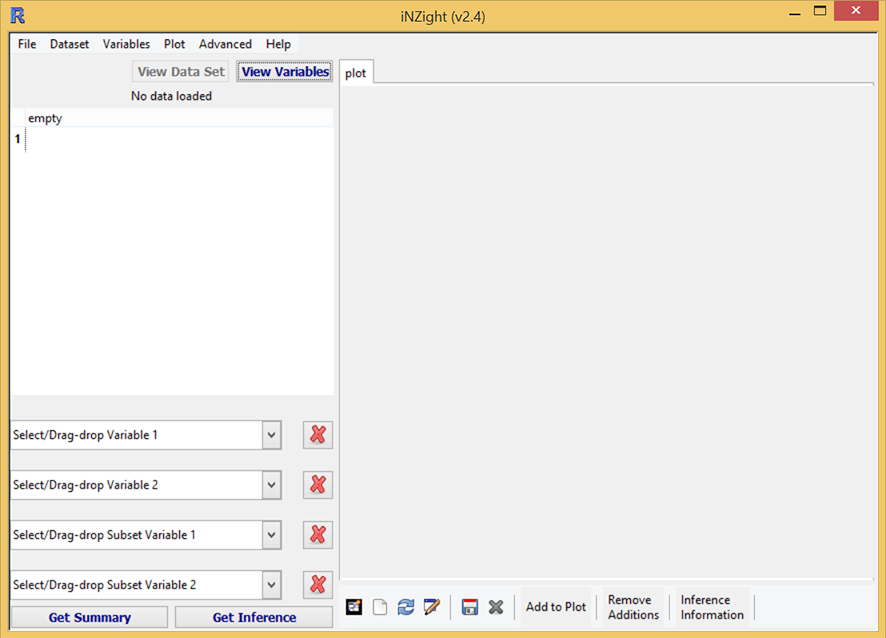
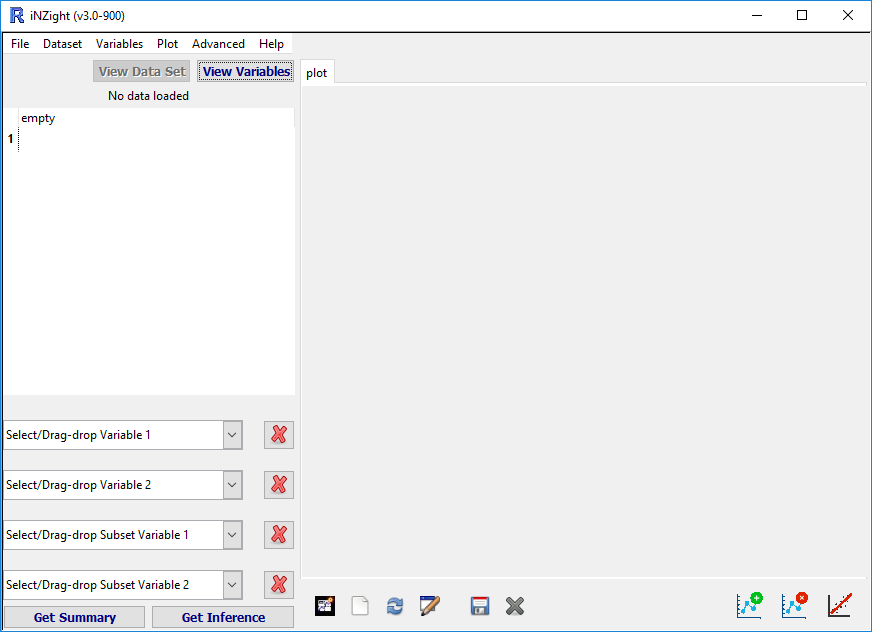
update images

Changed region(s): [[0.0, 0.0, 1.0, 1.0]]

diff --git a/iNZight/user_guides/interface/interface_edge.js b/iNZight/user_guides/interface/interface_edge.js
@@ -36,7 +36,7 @@
                         {
                             id: 'HelpMenu',
                             type: 'rect',
-                            rect: ['260px', '32px', '39px', '20px', 'auto', 'auto'],
+                            rect: ['258px', '33px', '39px', '20px', 'auto', 'auto'],
                             opacity: '1',
                             fill: ["rgba(255,255,255,0.00)"],
                             stroke: [0,"rgba(0,0,0,1)","none"]
@@ -44,7 +44,7 @@
                         {
                             id: 'AdvancedMenu',
                             type: 'rect',
-                            rect: ['195px', '32px', '65px', '20px', 'auto', 'auto'],
+                            rect: ['191px', '33px', '65px', '20px', 'auto', 'auto'],
                             cursor: 'pointer',
                             opacity: '1',
                             fill: ["rgba(255,255,255,0.00)"],
@@ -53,7 +53,7 @@
                         {
                             id: 'ManipVars',
                             type: 'rect',
-                            rect: ['95px', '32px', '62px', '20px', 'auto', 'auto'],
+                            rect: ['93px', '33px', '62px', '20px', 'auto', 'auto'],
                             cursor: 'pointer',
                             opacity: '1',
                             fill: ["rgba(255,255,255,0.00)"],
@@ -62,7 +62,7 @@
                         {
                             id: 'RowOperations',
                             type: 'rect',
-                            rect: ['45px', '32px', '50px', '20px', 'auto', 'auto'],
+                            rect: ['40px', '33px', '50px', '20px', 'auto', 'auto'],
                             cursor: 'pointer',
                             opacity: '1',
                             fill: ["rgba(0,0,0,0.00)"],
@@ -71,7 +71,7 @@
                         {
                             id: 'FileMenu',
                             type: 'rect',
-                            rect: ['10px', '32px', '35px', '20px', 'auto', 'auto'],
+                            rect: ['4px', '33px', '35px', '20px', 'auto', 'auto'],
                             opacity: '1',
                             fill: ["rgba(0,0,0,0.00)"],
                             stroke: [0,"rgba(0,0,0,1)","none"]
@@ -79,7 +79,7 @@
                         {
                             id: 'PlotToolbar',
                             type: 'rect',
-                            rect: ['339px', '579px', '538px', '51px', 'auto', 'auto'],
+                            rect: ['305px', '584px', '580px', '52px', 'auto', 'auto'],
                             cursor: 'pointer',
                             borderRadius: ["0px", "0px", "0px", "0px 0px"],
                             opacity: '1',
@@ -89,7 +89,7 @@
                         {
                             id: 'ViewChanger',
                             type: 'rect',
-                            rect: ['128px', '52px', '211px', '34px', 'auto', 'auto'],
+                            rect: ['90px', '53px', '211px', '34px', 'auto', 'auto'],
                             opacity: '1',
                             fill: ["rgba(0,0,0,0.00)"],
                             stroke: [0,"rgba(0,0,0,1)","none"]
@@ -97,7 +97,7 @@
                         {
                             id: 'DataName',
                             type: 'rect',
-                            rect: ['10px', '86px', '329px', '17px', 'auto', 'auto'],
+                            rect: ['4px', '88px', '300px', '17px', 'auto', 'auto'],
                             opacity: '1',
                             fill: ["rgba(0,0,0,0.00)"],
                             stroke: [0,"rgba(0,0,0,1)","none"]
@@ -105,7 +105,7 @@
                         {
                             id: 'DataViewer',
                             type: 'rect',
-                            rect: ['10px', '107px', '329px', '287px', 'auto', 'auto'],
+                            rect: ['4px', '110px', '300px', '287px', 'auto', 'auto'],
                             opacity: '1',
                             fill: ["rgba(0,0,0,0.00)"],
                             stroke: [0,"rgba(0,0,0,1)","none"]
@@ -113,7 +113,7 @@
                         {
                             id: 'DropTargets',
                             type: 'rect',
-                            rect: ['10px', '418px', '329px', '183px', 'auto', 'auto'],
+                            rect: ['4px', '415px', '300px', '195px', 'auto', 'auto'],
                             cursor: 'pointer',
                             opacity: '1',
                             fill: ["rgba(0,0,0,0.00)"],
@@ -122,7 +122,7 @@
                         {
                             id: 'SummaryButtons',
                             type: 'rect',
-                            rect: ['10px', '601px', '329px', '29px', 'auto', 'auto'],
+                            rect: ['4px', '607px', '300px', '29px', 'auto', 'auto'],
                             opacity: '1',
                             fill: ["rgba(0,0,0,0.00)"],
                             stroke: [0,"rgba(0,0,0,1)","none"]

diff --git a/iNZight/css/main.css b/iNZight/css/main.css
@@ -384,6 +384,11 @@ ul {
 ol.alpha {
   list-style-type: lower-alpha; }
 
+.image-row img {
+  height: 200px;
+  display: inline-block;
+  margin: 20px; }
+
 .round-button, .large-button, .feature .download .download_button, .horizontal .options .option, #dl_links .options .option, select {
   display: -webkit-box;
   display: -moz-box;
@@ -1278,7 +1283,7 @@ a img {
 .video-wrapper {
   position: relative;
   overflow: hidden;
-  margin: 0 auto; }
+  margin: 20px auto; }
   @media (max-width: 1099px) {
     .video-wrapper.asp16x9 {
       width: 100%;

diff --git a/iNZight/styles/3-modules/_markdown.sass b/iNZight/styles/3-modules/_markdown.sass
@@ -82,7 +82,7 @@ a img
 .video-wrapper
   position: relative
   overflow: hidden
-  margin: 0 auto
+  margin: 20px auto
 
   @include notwide
     &.asp16x9  // 16:9 aspect ratio: 9/16 = 0.5625

diff --git a/iNZight/styles/2-items/_images.sass b/iNZight/styles/2-items/_images.sass
@@ -1,0 +1,5 @@
+.image-row
+  img
+    height: 200px
+    display: inline-block
+    margin: 20px

diff --git a/iNZight/styles/2-items/_items.sass b/iNZight/styles/2-items/_items.sass
@@ -2,3 +2,4 @@
 @import 'components'
 @import 'mixins'
 @import 'media'
+@import 'images'

diff --git a/iNZight/instructions/install_windows.php b/iNZight/instructions/install_windows.php
@@ -4,16 +4,37 @@
 
   <li>
     Open the <b>iNZightVIT-installer.exe</b> file. By default this will have gone to <b>Downloads</b>.
+
+    <div class="image-row">
+      <img src="img/install/win/install_01.png">
+      <img src="img/install/win/install_02.png">
+    </div>
+
+    <div class="note">
+      <b>NOTE:</b>
+      We don't have a Microsoft developers account for them to make iNZight a "trusted application", so you'll likely get a security warning (shown above).
+      So long as the download comes from "https://stat.auckland.ac.nz/", you are fine.
+    </div>
   </li>
 
   <li>
     <b>Follow the instructions</b> to select the install location (recommended that you leave the default) and wait while iNZightVIT is installed.
+
+    <div class="image-row">
+      <img src="img/install/win/install_03.png">
+      <img src="img/install/win/install_04.png">
+    </div>
+
+
   </li>
 
   <li>
     <b>That's it!</b>
     iNZight has been installed on your computer. You'll find shortcuts on your Desktop,
     as well as a Start Menu folder.
+    <div class="image-row">
+      <img src="img/install/win/install_05.png">
+    </div>
   </li>
 
   <li>

diff --git a/iNZight/user_guides/plot_options/add_to_plot.Md b/iNZight/user_guides/plot_options/add_to_plot.Md
@@ -15,14 +15,14 @@ See also:
 ## Options for Scatter Plots        {#scatterplots}
 
 1. __Code more variables__
-  ![Code more variables](../../img/user_guides/add2plot/scatter1.jpg){.fright}
+  ![Code more variables](../../img/user_guides/plotoptions/02_addtoplot_scatter_codevars.png){.fright}
 
   __Colour by levels of__: this gives the option to colour code the data points by any variable. If a numeric variable is chosen, a rainbow spectrum of colours is used to signify progressively larger values. If a categorical variable is used, different levels are represented by different colours. (See [ways of choosing colours](#ColourChoices) for alternatives to selecting from the drop-down menu.)
 
   __Resize points proportional to__: this option can be used to resize the points proportional to any numeric variable in the data set.
 
 2. __Add trend curves__
-  ![Add trend curves](../../img/user_guides/add2plot/scatter2.jpg){.fright}
+  ![Add trend curves](../../img/user_guides/plotoptions/03_addtoplot_scatter_trend.png){.fright}
 
   Provides the user with the option to fit linear, quadratic and cubic trend curves to the data shown on the scatter plot. The user is also allowed to control the colour of the trend lines. (See [ways of choosing colours](#ColourChoices) for alternatives to selecting from the drop-down menu.)
 
@@ -47,27 +47,27 @@ See also:
   User can add ticks on both axes in order to make it easy to read off the x and y values for data points.
 
 6. __Join points by lines__
-  ![Join points by lines](../../img/user_guides/add2plot/scatter6.jpg){.fright}
+  ![Join points by lines](../../img/user_guides/plotoptions/04_addtoplot_scatter_join.png){.fright}
 
   Joins up data points in a continuous line. However, if the points are already colour coded by a variable, then separate lines are drawn connecting points belonging to each level of the coding variable.
 
 7. __Change plot appearance__
-  ![Change plot appearance](../../img/user_guides/add2plot/scatter7.jpg){.fright}
+  ![Change plot appearance](../../img/user_guides/plotoptions/05_addtoplot_scatter_appearance.png){.fright}
 
 
   This brings up a menu that allows the user to customize the following aspects of the scatter plot.
 
   - Users can change the colour of the data point symbols and opt to colour the interior of the symbols as well.
-  
+
   - Similarly the background of the plot can be changed by typing in a colour or by using the drop down menu.
 
   - The size of the symbols can be increased or decreased by using sliders.
-  
+
    (See [ways of choosing colours](#ColourChoices) for alternatives to selecting from the drop-down menu.)
 
 
 8. __Identify points__
-  ![Identify points](../../img/user_guides/add2plot/scatter8.jpg){.fright}
+  ![Identify points](../../img/user_guides/plotoptions/06_addtoplot_scatter_locate.png){.fright}
 
   This allows users to label points in one of three ways (text labels, colour labels, and related points), using one of three methods (clicking, selecting values, or labelling extreme points).
 
@@ -103,20 +103,25 @@ See also:
 
 
 9. __Customise Labels__
-  ![Customise labels](../../img/user_guides/add2plot/scatter9.jpg){.fright}
+  ![Customise labels](../../img/user_guides/plotoptions/07_addtoplot_scatter_labels.png){.fright}
 
   iNZight attempts to make sensible titles and axis labels automatically. However, you can use your own if you prefer by typing in your own and pressing the `Enter` key on your keyboard.
 
+10. __Modify Axis Limits__
+  ![Modify axis limits](../../img/user_guides/plotoptions/08_addtoplot_scatter_limits.png){.fright}
+
+  If you want to zoom in on a particular region of the plot, you can use this window to adjust the range of values displayed.
+
 
 ## Ways of choosing colours {#ColourChoices}
- 
+
 If ___colour coding by a variable___ is active while a user tries to change data point colours, the coding colours ___takes precedence___ over the user's choice until it is switched off (using Remove Additions).
 
-__Colours__ can be chosen from a ___drop-down___ menu OR by typing in the ___name___ of a desired colour OR its ___Hex code___ (e.g. #C80000). 
- See [colour chart pdf](http://research.stowers-institute.org/efg/R/Color/Chart/ColorChart.pdf) (8 pages) for the names and codes of the huge range of colours available.  Increasingly, if any typed in colours are not available the user is notified via a pop up dialogue box. 
- 
+__Colours__ can be chosen from a ___drop-down___ menu OR by typing in the ___name___ of a desired colour OR its ___Hex code___ (e.g. #C80000).
+ See [colour chart pdf](http://research.stowers-institute.org/efg/R/Color/Chart/ColorChart.pdf) (8 pages) for the names and codes of the huge range of colours available.  Increasingly, if any typed in colours are not available the user is notified via a pop up dialogue box.
+
  Adding a 7th and 8th digit to a 6-character Hex code allows you to include percent opacity (= 100 - percent transparency; compare #204090 with #20409030 and #20409070). (One way of specifying the main hex code is to use 6 numbers corresponding to 2 digits each for %Red, %Green and % Blue; FF can be used to specify 100%.)
- 
+
 
 
 ## Options for Dot Plots        {#dotplots}

diff --git a/iNZight/user_guides/plot_options/plot_toolbar.Md b/iNZight/user_guides/plot_options/plot_toolbar.Md
@@ -6,6 +6,15 @@ The plot toolbar lies below the graphics window, and provides several useful opt
 The buttons are described below, from left to right.
 
 
+
+
+## New Plot Window
+
+Clicking this button will open up a new graphics window that uses the default R device instead of the "container" used by iNZight. This has two particular uses:
+- To permit copying and pasting of graphics (including in metafile form) by right-clicking on the graphics window,
+- To permit easier resizing of the plotting window, including full screen.
+
+
 ## New Plot
 
 This will create a new plot tab, allowing the currently displayed plot to be retained.
@@ -13,11 +22,10 @@ Subsequent plots will use the new tab.
 You can switch between tabs by _double-clicking_ on the tab you wish to plot into.
 
 
-## New
+## Refresh
 
-Clicking this button will open up a new graphics window that uses the default R device instead of the "container" used by iNZight. This has two particular uses:
-- To permit copying and pasting of graphics (including in metafile form) by right-clicking on the graphics window,
-- To permit easier resizing of the plotting window, including full screen.
+Use if the plot window seems to have stopped working or is not displaying your plot properly. It re-plots the data and usually corrects the error.
+
 
 
 ## Rename
@@ -25,14 +33,15 @@ Clicking this button will open up a new graphics window that uses the default R 
 Used to rename the tab of the current plotting window.
 
 
-## Refresh
-
-Use if the plot window seems to have stopped working or is not displaying your plot properly. It re-plots the data and usually corrects the error.
-
-
 ## Save
 
 Enables you to save the contents of the displayed plot as a file (in `.emf`, `.jpeg`, `.png`, or `.bmp` formats).
+
+
+## Close
+
+This will close the current __plot tab__, _not the iNZight window_.
+
 
 
 ## [Add to Plot](./?topic=add_to_plot)
@@ -42,4 +51,3 @@ Enables you to save the contents of the displayed plot as a file (in `.emf`, `.j
 For removal of some or all additions made to a plot.
 
 ## [Inference Information](./?topic=plot_inference)
-

diff --git a/iNZight/user_guides/basics/load_data.Md b/iNZight/user_guides/basics/load_data.Md
@@ -1,13 +1,36 @@
 # Loading data
 
-If you have a data set you would like to load into iNZight, go to the __File__ menu
-and select __Import Data__.
+The first thin you need to do after starting iNZight is to load a data set to work with. We've made this as easy as possible, and iNZight recognizes several file types, including CSV and Excel (on Windows).
 
-In the window that pops up, click __Browse__, and then use the browser to find your
-data, and click __OK__. Click __OK__ again. Your data should appear in iNZight.
+## Loading your own data
+
+If you have a data set you would like to load into iNZight, go to the __File__ menu
+and select __Import Data__. This will open the following window:
+
+![Load data into iNZight](../../img/user_guides/basics/2_load_data.png)
+
+
+In the window that pops up, click __Open__, and then use the browser to find your data, and click __OK__.
+Click __OK__ again, and your data will appear in iNZight.
+
+
+## Example data sets
+
+To make it even easier to get started with iNZight, we've implemented a Example Datasets tool that allows you to quickly load several data sets that are used in the examples throughout the website.
+
+To load an example data set, go to the __File__ menu and click __Example Data__. You'll be presented with this window:
+
+![Load example data into iNZight](../../img/user_guides/basics/3_load_examples.png)
+
+In the example above, we've selected the "Census at School 500" dataset from the Default iNZight module. We will be using this dataset a lot for many of our examples.
+
+
+## Video Demonstration
 
 The following ___video___ demonstrates this process to load the data set
 _Census at School-500.csv_ which you can find in the __Data__ folder
 that came with iNZight.
+
+<div class="note">NOTE: the video was made using an older version of iNZight, so there will be some minor differences in the appearance.</div>
 
 ///VIDEO: https://www.youtube.com/embed/PsoCp8z8WaE ///

diff --git a/iNZight/user_guides/basics/update_inzight.Md b/iNZight/user_guides/basics/update_inzight.Md
@@ -5,9 +5,15 @@ We are continually working on iNZight by creating new features and fixing issues
 
 ## On Windows
 
-The Updater can be found in the Start Menu > iNZightVIT, or in My Documents > iNZightVIT.
+To update iNZight, either:
 
-If you can't find it, you might need to ask you system administrator to run the updater.
+1. Go to __Start__ > __All files__ > __iNZightVIT__, and click __Update__, or
+
+2. Assuming you installed iNZight to the default directory, go to __My Documents__ > __iNZightVIT__ and double-click __Update__. This is shown below:
+
+  ![Update iNZight](../../img/user_guides/basics/4_update_inzight.png) {.width600}
+
+3. If you can't find the __iNZightVIT__ folder in either of those locations, go to the directory where you installed iNZight. If you didn't install iNZight, you might need to ask your system administrator to do it for you.
 
 
 ## On Mac
